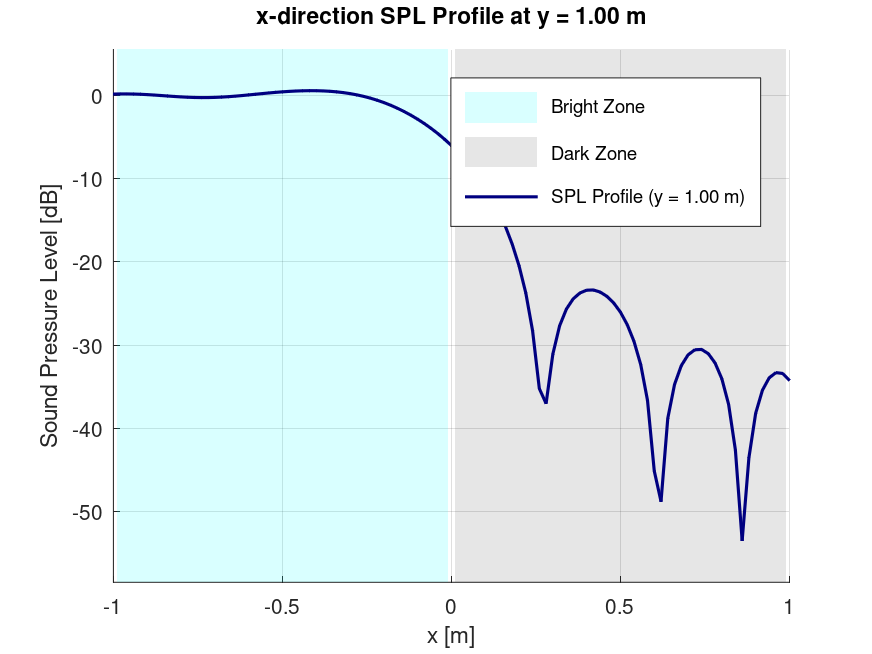
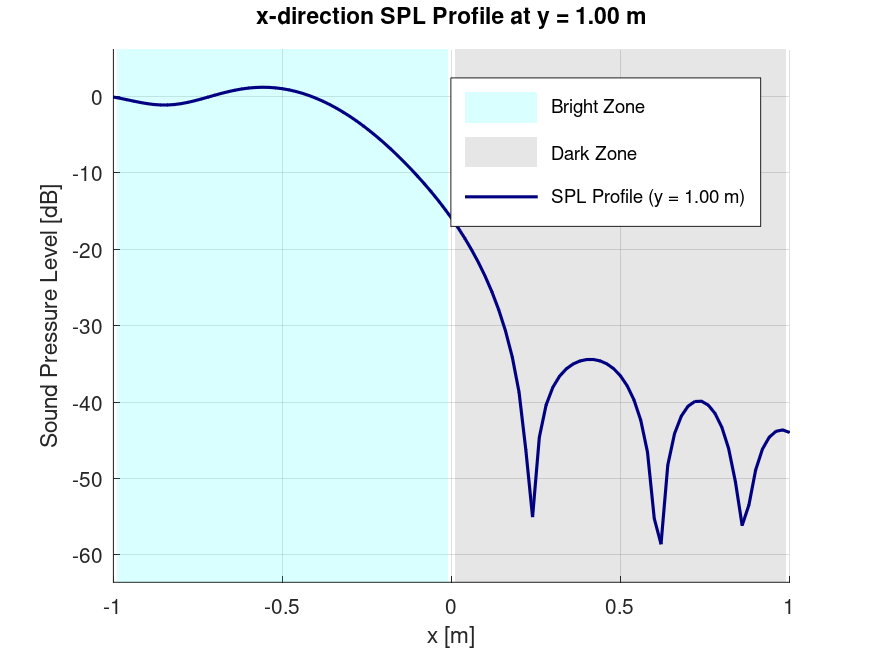
正則値を大きくする・Dzの重み付けを強く

diff --git a/filter_pm.m b/filter_pm.m
@@ -21,7 +21,7 @@ function drv_ls = filter_pm(mic_geo, G, f, ang_wave, amp_src, Nsrc, c, num_bz, n
         % 最大固有値の10^-5倍
         % 行列が悪条件になるのを防ぐ
         %--------------------------------------------------
-        reg_para = 10^(-5) * eigs((g' * g), 1);
+        reg_para = 10^(-3) * eigs((g' * g), 1);
 
         p_des = zeros(n_mic, Nsrc);
         w_vec = ones(n_mic, 1); % 重みベクトルの初期化
@@ -42,7 +42,7 @@ function drv_ls = filter_pm(mic_geo, G, f, ang_wave, amp_src, Nsrc, c, num_bz, n
         dz_idx_start = num_bz + 1;
         for i = dz_idx_start:n_mic
             p_des(i) = 0;
-            w_vec(i) = 1.0;
+            w_vec(i) = 15.0;
         end
 
         % 重み行列 W (対角行列)
